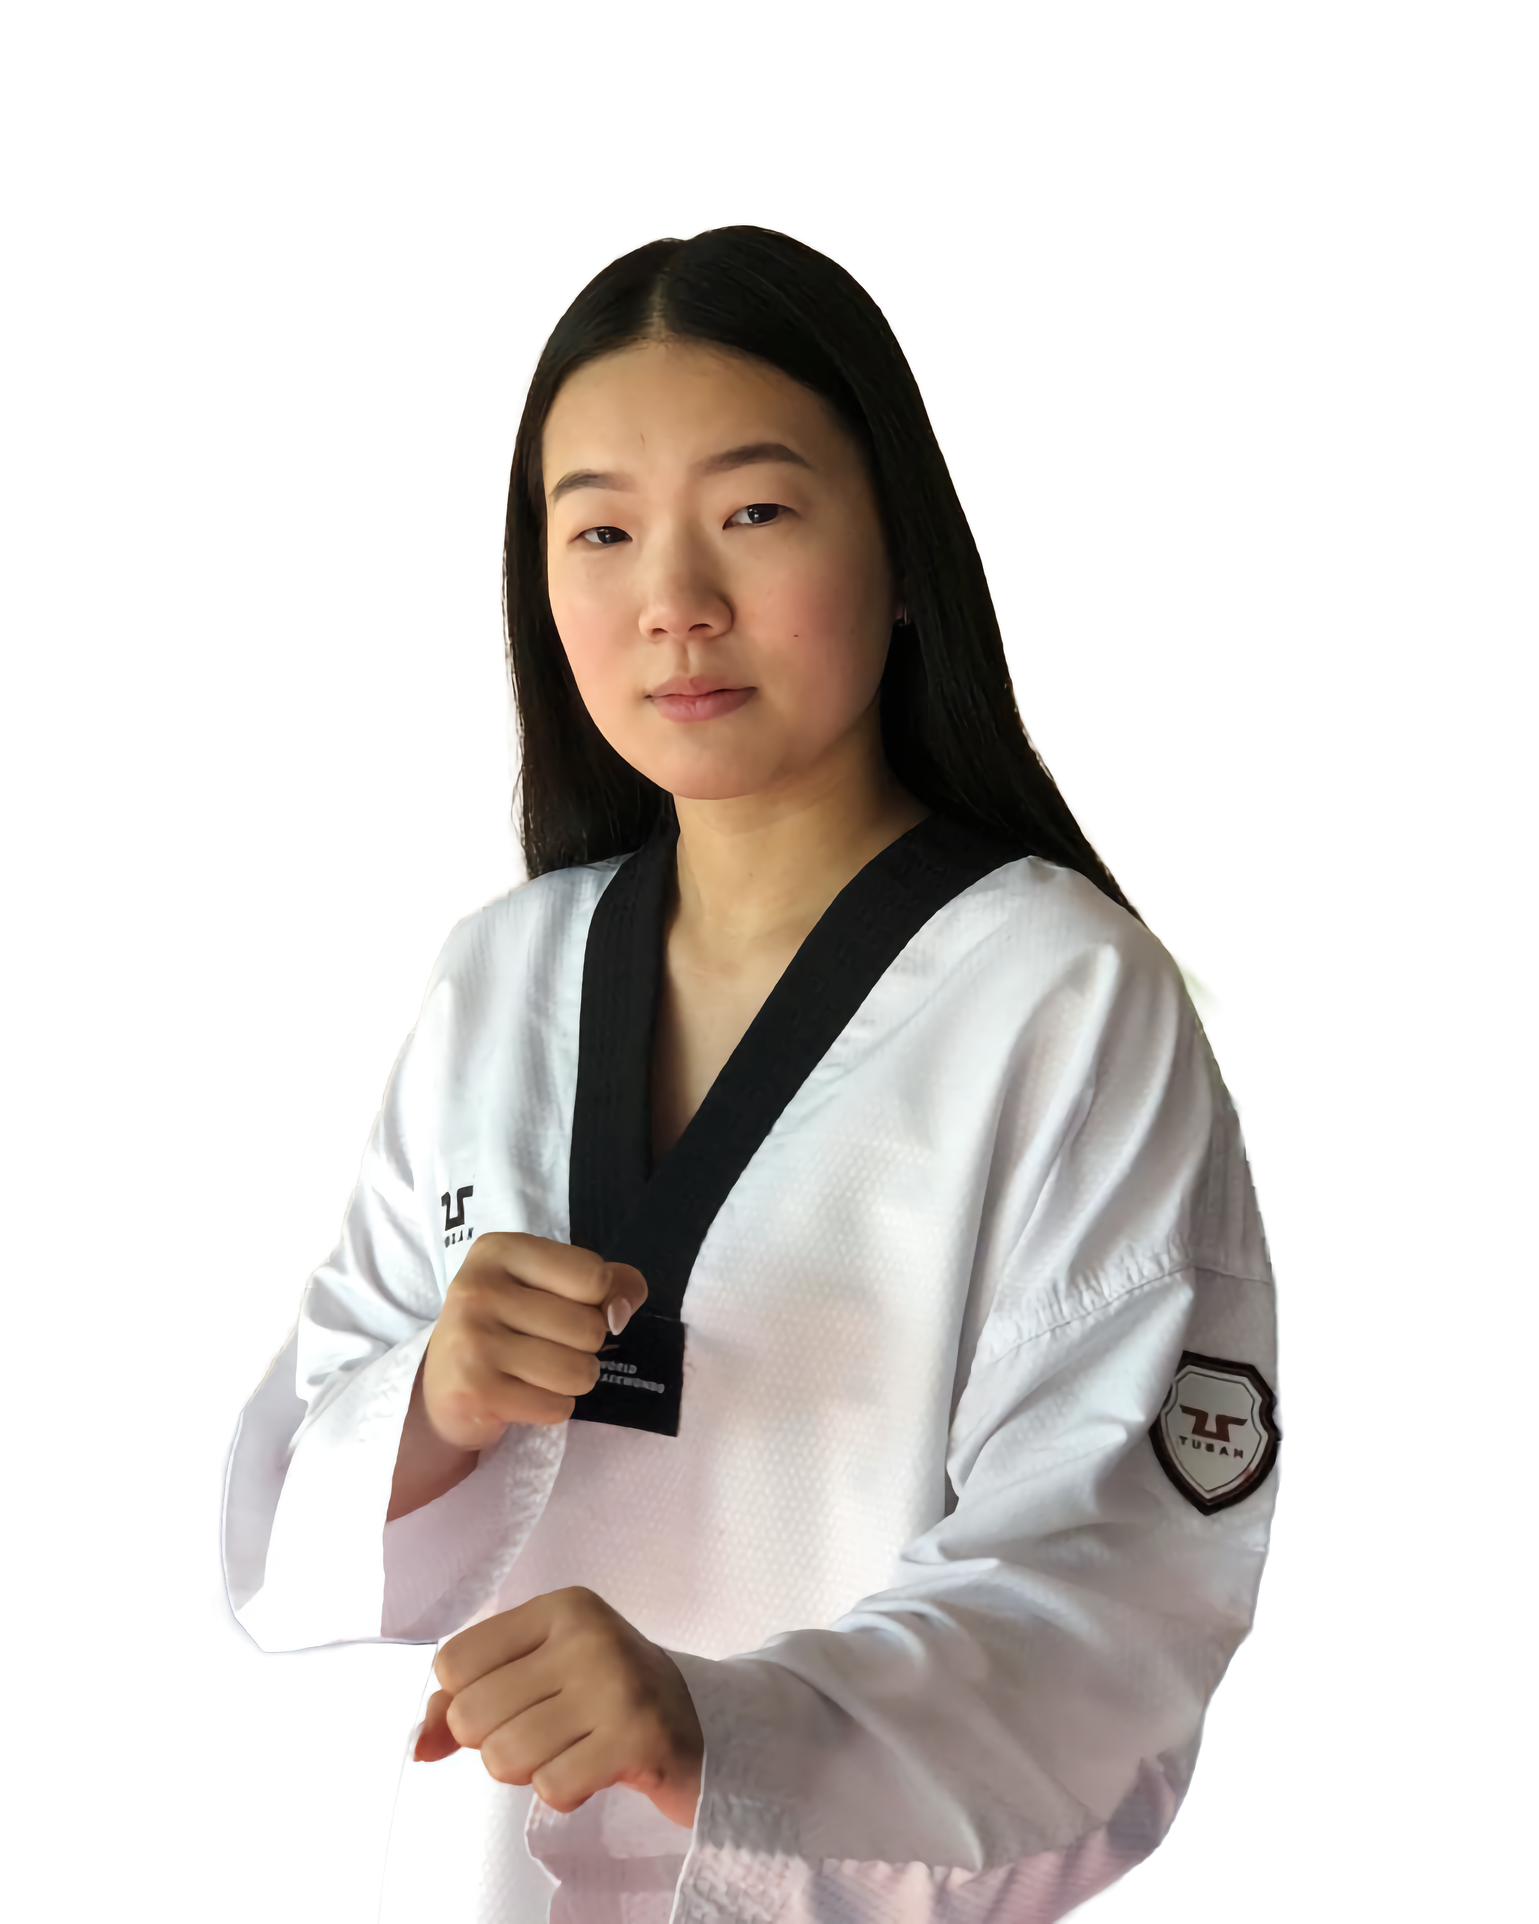
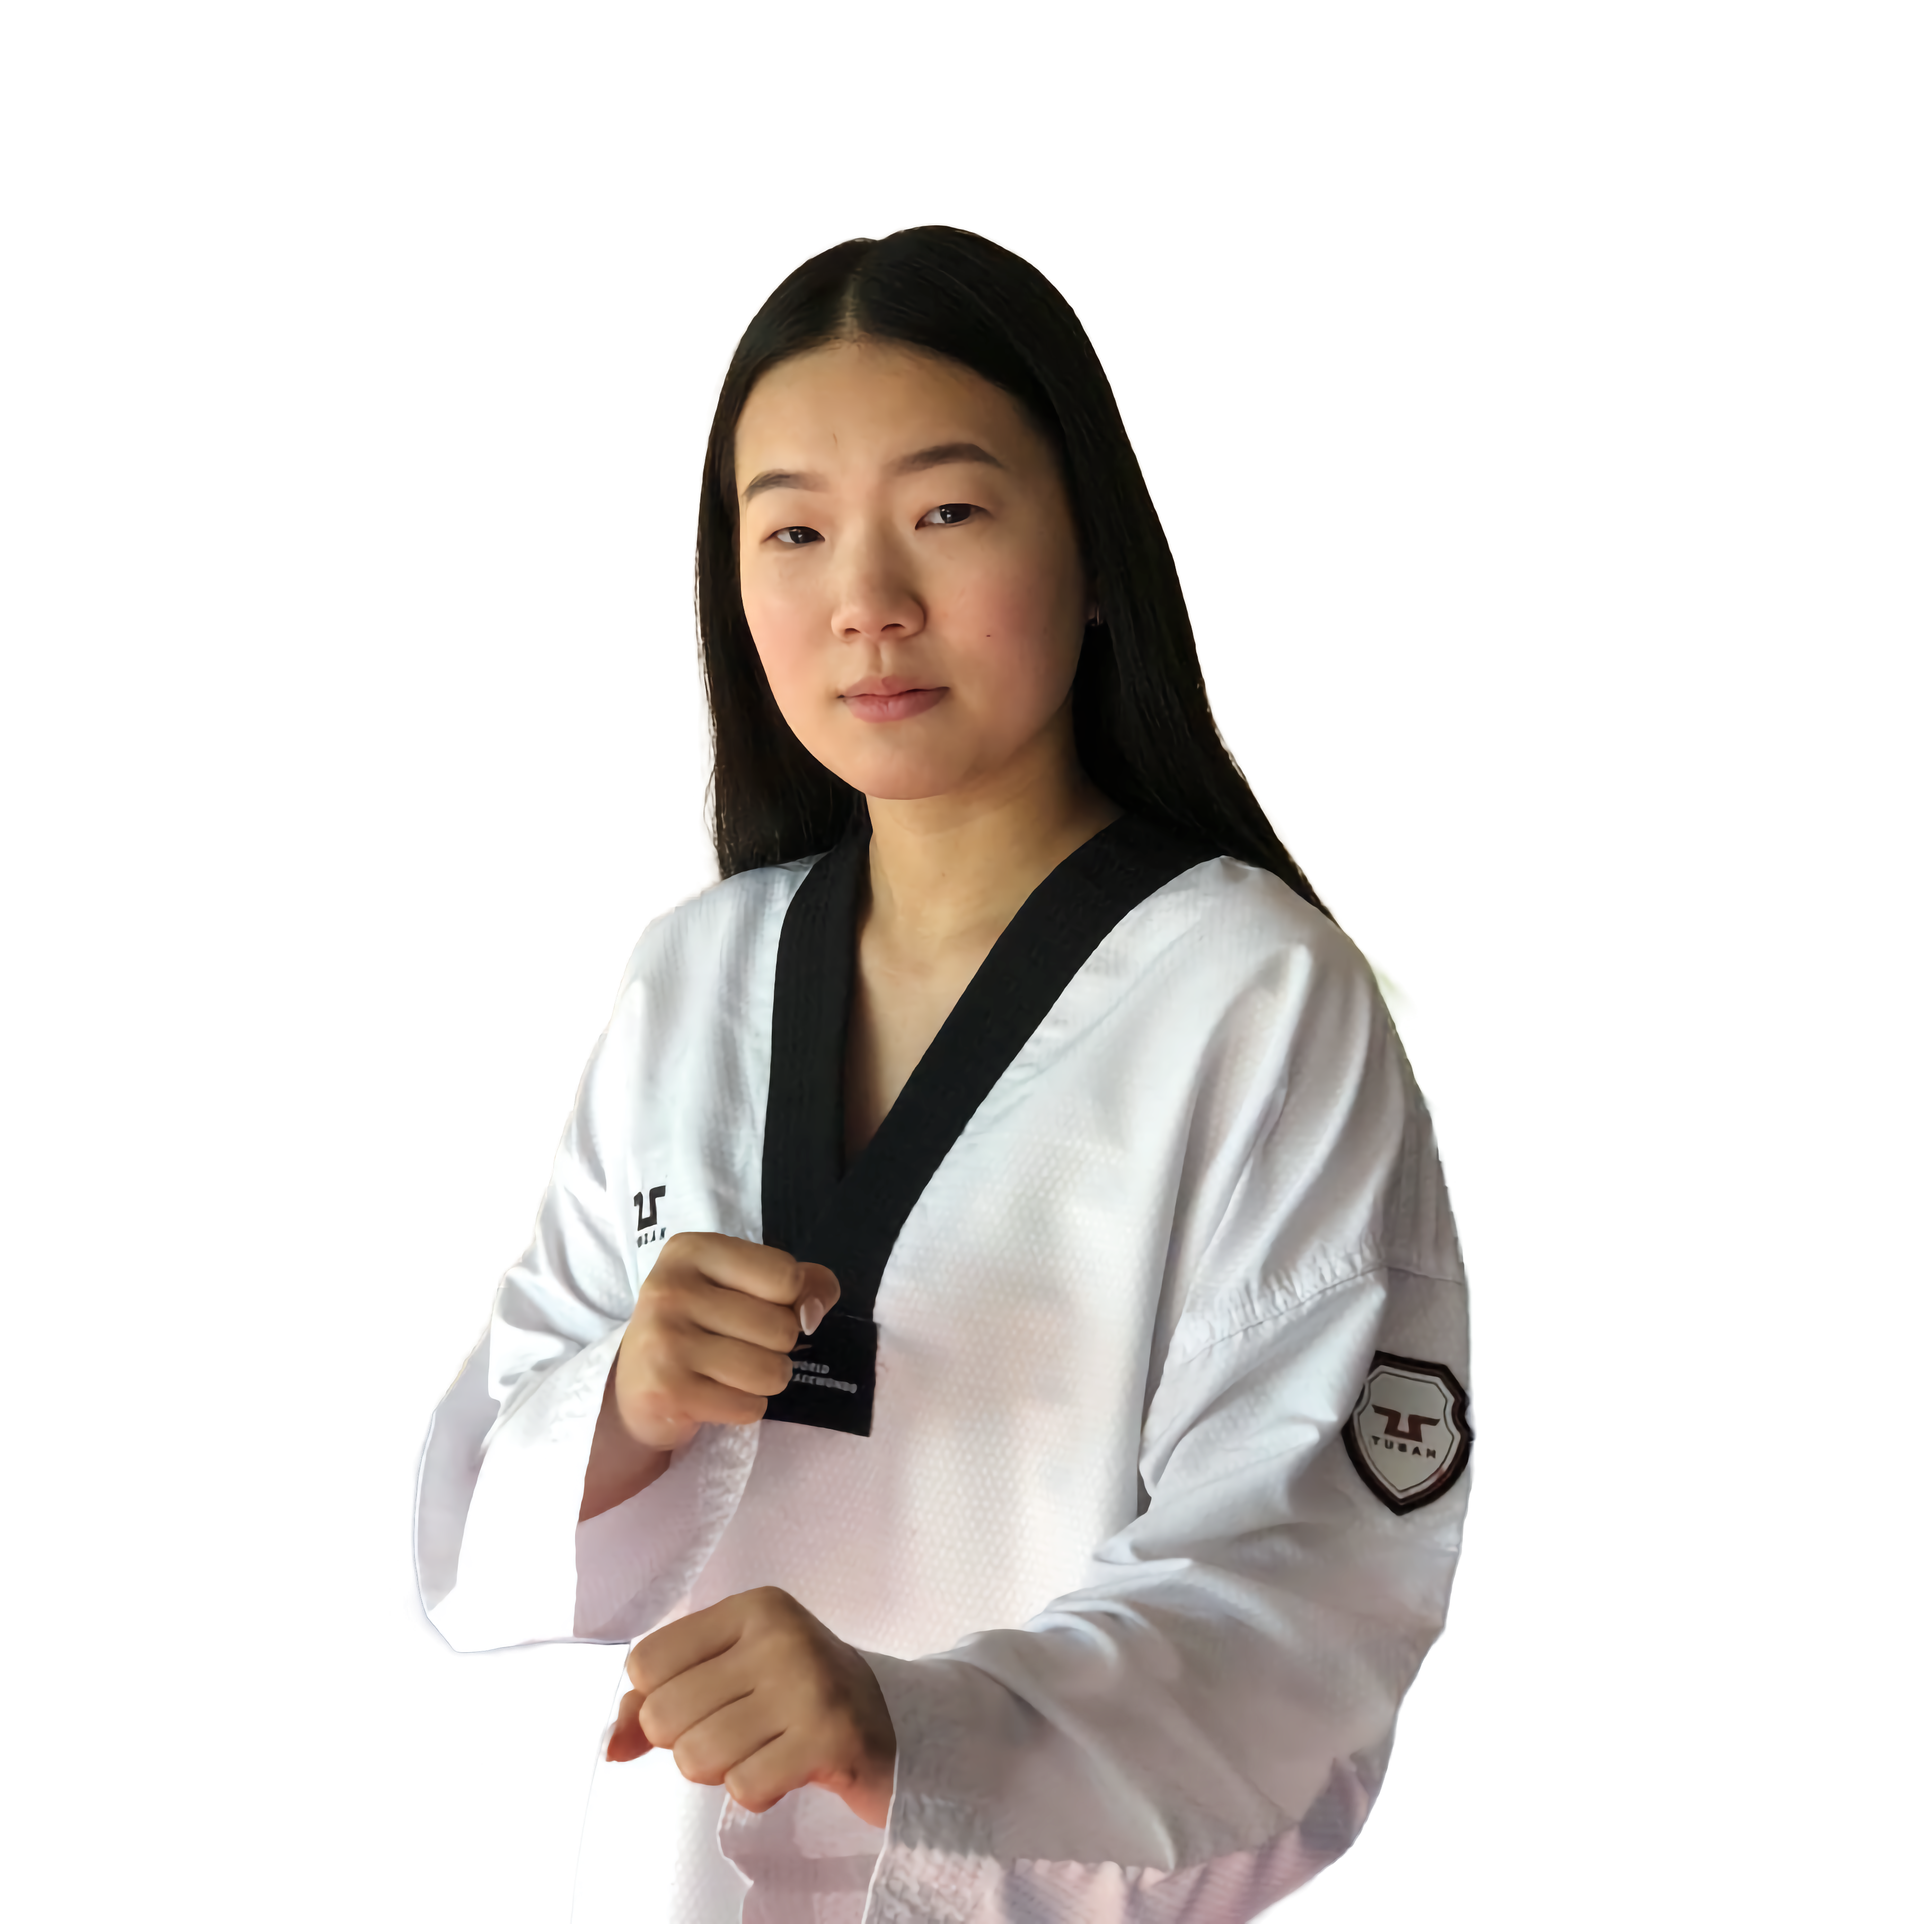
1

Changed region(s): [[0.124, 0.1245, 0.8368, 1.0], [0.5269, 0.1245, 0.5579, 0.1556]]

diff --git a/components/mainpage_slider/athlets/Athlet.module.css b/components/mainpage_slider/athlets/Athlet.module.css
@@ -14,7 +14,8 @@
 .athlet_block__img {
   position: absolute;
   top: 0px;
-
+  left: -25px;
+  z-index: 10;
 
 }
 
@@ -23,6 +24,7 @@
   top: 0px;
   width: 300px;
   height: 150px;
+  z-index: 9;
 
 
 
@@ -33,6 +35,7 @@
   bottom: 0px;
   width: 300px;
   height: 150px;
+  z-index: 11;
 
 
 
@@ -48,6 +51,7 @@
   text-align: center;
   margin-top: 10px;
   color: var(--textlight);
+  z-index: 12;
 
   text-shadow: 1px 1px 2px var(--textgray);
 
@@ -64,6 +68,8 @@
   font-size: 20px;
   text-align: center;
   color: var(--textlight);
+  z-index: 12;
+
 
   text-shadow: 1px 1px 2px var(--textgray);
 

diff --git a/components/mainpage_slider/athlets/athlet.js b/components/mainpage_slider/athlets/athlet.js
@@ -22,7 +22,7 @@ const Athlet = () => {
             <div className={styles.athlet_block}>
 
 
-                <Image className={styles.athlet_block__img} src={athletImg} alt={athletName} width={300} height={350} />
+                <Image className={styles.athlet_block__img} src={athletImg} alt={athletName} width={350} height={350} />
                 <Image className={styles.athlet_block__bg1} src={BG1} alt={athletName} />
                 <Image className={styles.athlet_block__bg2} src={BG2} alt={athletName} />
 

diff --git a/components/mainpage_slider/athlets/Athletslist.module.css b/components/mainpage_slider/athlets/Athletslist.module.css
@@ -17,6 +17,7 @@
   background-color: var(--lightblue);
   border-radius: 80px;
 
+
   -webkit-filter: drop-shadow(3px 5px 5px #434546);
   filter: drop-shadow(3px 5px 5px #434546);
 }
